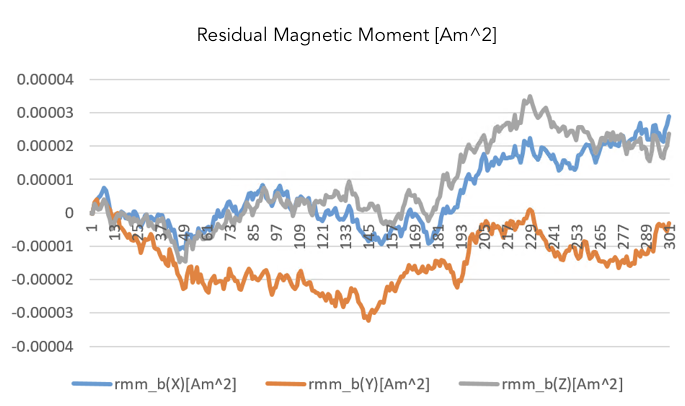
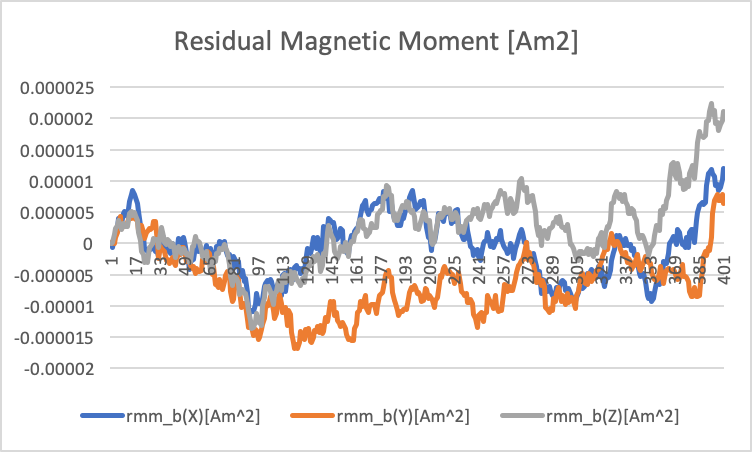
modify the description about random walk

Changed region(s): [[0.0, 0.0, 1.0, 1.0], [0.0, 0.5911, 0.1226, 0.8867], [0.2146, 0.0591, 0.7664, 0.1182]]

diff --git a/Specifications/Disturbance/Spec_MagDisturbance.md b/Specifications/Disturbance/Spec_MagDisturbance.md
@@ -110,13 +110,18 @@
 
    3. results
 
-      [WIP] The orders of RMM are a little larger than that of the inputs [stddev_rw, limit_rw, stddev_wn]. In order to verify the RMM settings, further investigation for Random Walk Library.
-      -  [stddev_rw, limit_rw, stddev_wn] =  [1E-5,0,0]
-         ![](./figs/test_rmm_randomwalk.png)
-      - [stddev_rw, limit_rw, stddev_wn] =  [1E-5,1E-4,0]
-         ![](./figs/test_rmm_randomwalk_2.png)
-      - [stddev_rw, limit_rw, stddev_wn] =  [0,0,1E-5]
-         ![](./figs/test_rmm_whitenoise.png)
+   -  [stddev_rw, limit_rw, stddev_wn] =  [1E-5,0,0]
+      - RMM random walk value is much smaller than 1E-5, because random walk limit is 0. 
+
+      ![](./figs/test_rmm_randomwalk.png)
+      
+   - [stddev_rw, limit_rw, stddev_wn] =  [1E-5,1E-4,0]
+   
+      ![](./figs/test_rmm_randomwalk_2.png)
+      
+   - [stddev_rw, limit_rw, stddev_wn] =  [0,0,1E-5]
+   
+      ![](./figs/test_rmm_whitenoise.png)
 
 ## 4. References
 
